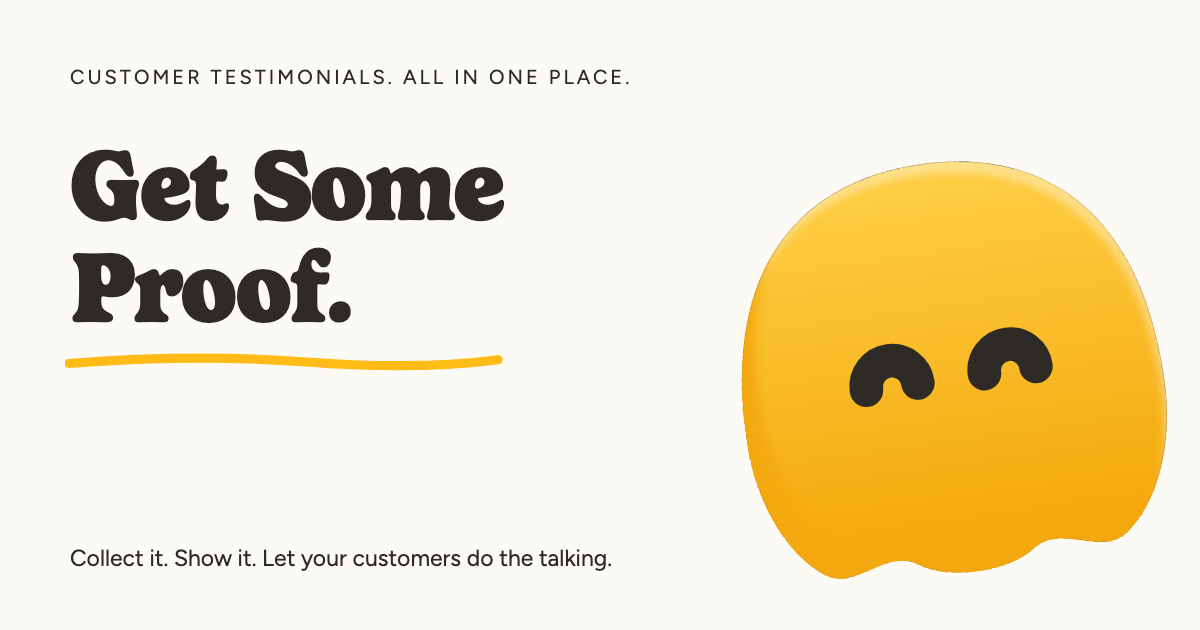
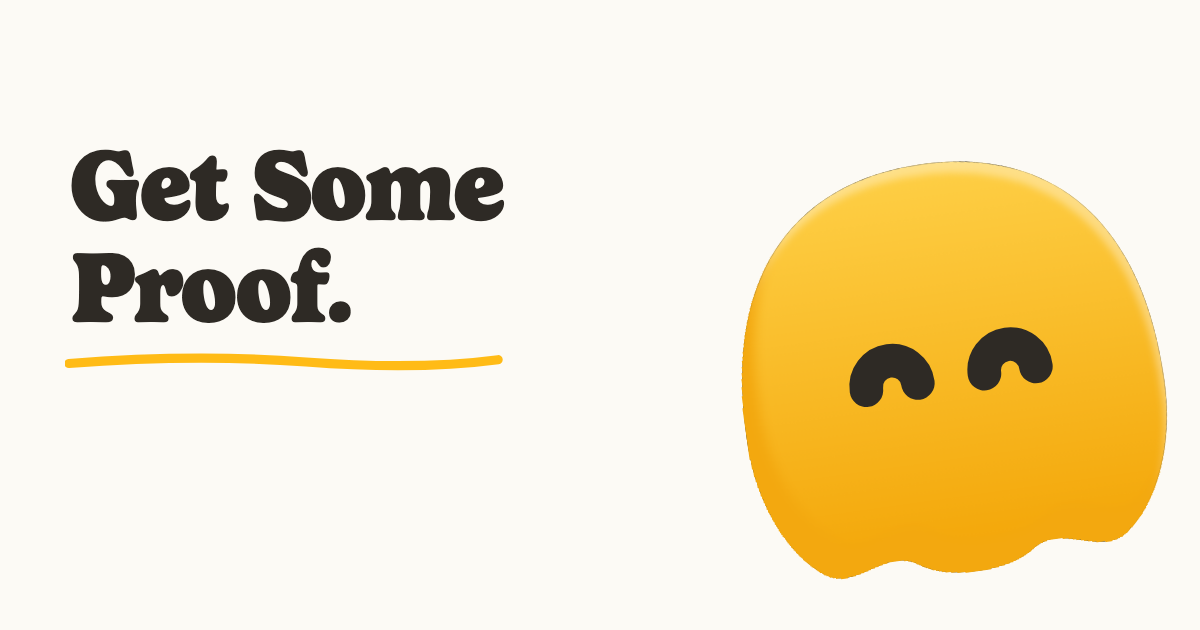
style(og): remove small taglines from sharing image

Changed region(s): [[0.0617, 0.0905, 0.5242, 0.1508], [0.0617, 0.8746, 0.5242, 0.9048]]

diff --git a/docs/implementation/og-image-seo.md b/docs/implementation/og-image-seo.md
@@ -4,7 +4,7 @@ Source: owner request on 2026-09-12 to use the mascot and brand typography in th
 
 ## Acceptance and evidence
 
-- A public 1200 × 630 PNG uses the official happy mascot, Gelica Black, Figtree and the paper/amber palette. Source: `scripts/brand/build-social-card.mjs`; regenerate with `node scripts/brand/build-social-card.mjs` after installing Playwright Chromium. The generator fetches the pinned Figtree font; serving the committed PNG needs no font fetch or backend.
+- A public 1200 × 630 PNG uses the official happy mascot, Gelica Black and the paper/amber palette. Source: `scripts/brand/build-social-card.mjs`; regenerate with `node scripts/brand/build-social-card.mjs` after installing Playwright Chromium. The generator uses only local assets. The image contains only the wordmark, mascot and amber underline, with no tagline. Serving the committed PNG needs no font fetch or backend.
 - Open Graph and X large-image cards include image dimensions and alt text. `e2e/seo.spec.ts` checks crawler HTML and the actual PNG response.
 - Public templates and Walls have self-canonical URLs and page-specific sharing titles/descriptions. `src/lib/public-wall-metadata.test.ts` covers Wall metadata and empty-Wall noindex behavior.
 - Default noindex keeps authentication, account, invitation, import, developer and token routes out of search. The template gallery and nonempty Walls opt into indexing. Robots permits fetching noindex pages and share assets; the sitemap contains only the indexable template gallery. The root still redirects to authentication and is intentionally absent from the sitemap.
